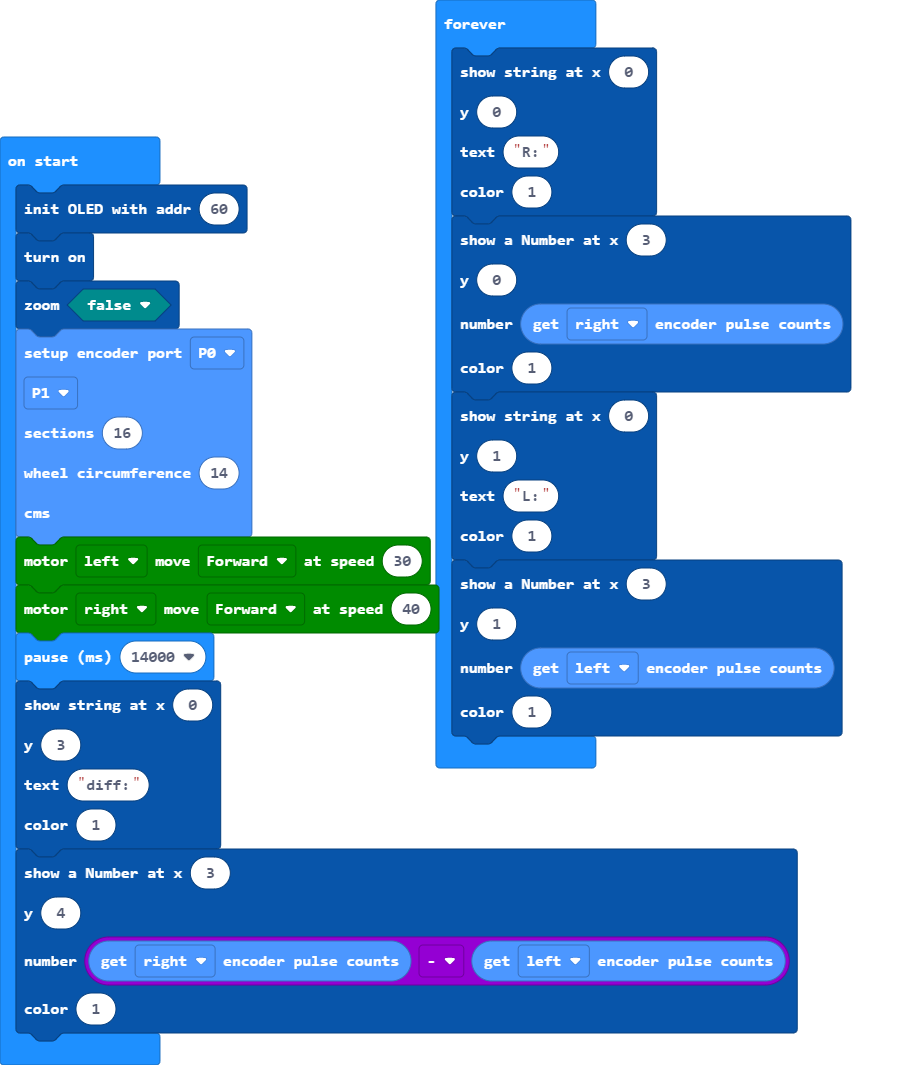
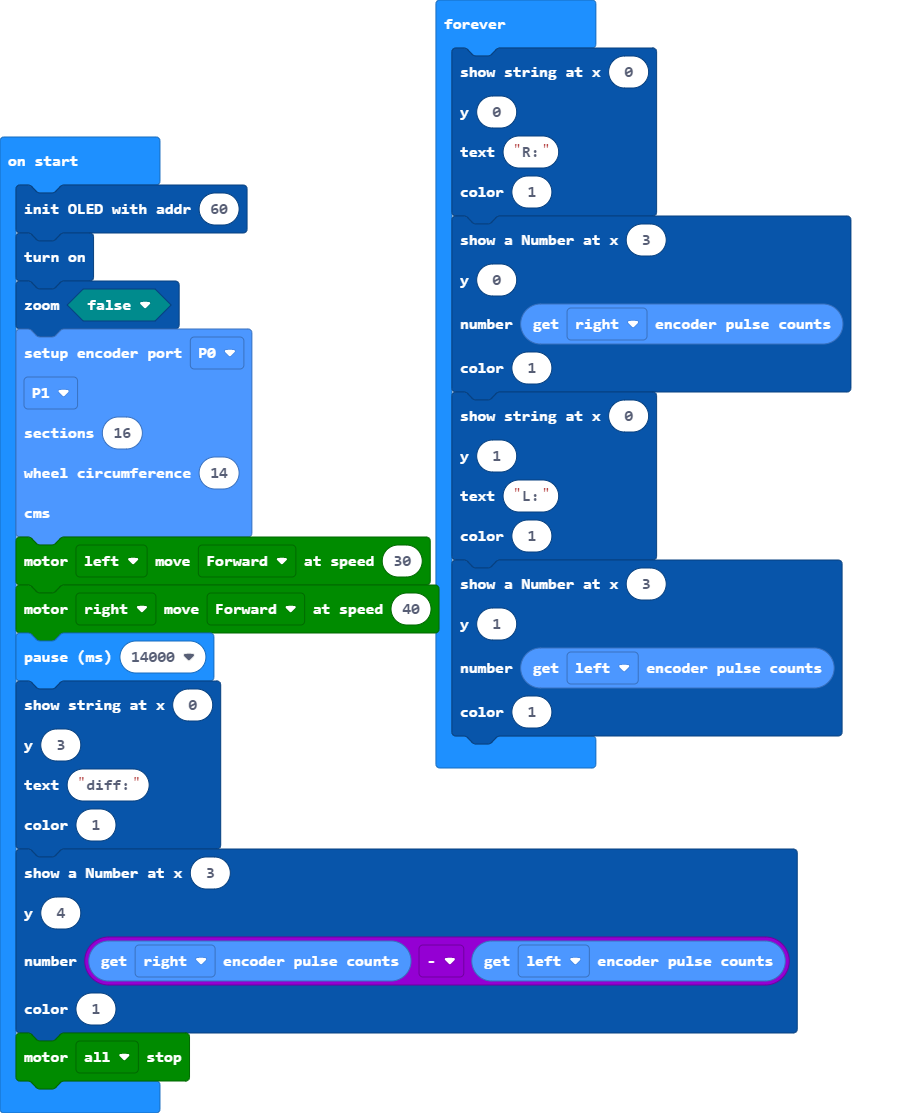
added stop motor

Changed region(s): [[0.0, 0.031, 0.9612, 0.9915], [0.4961, 0.0, 0.5581, 0.031]]

diff --git a/main.ts b/main.ts
@@ -22,6 +22,7 @@ OLED12864_I2C.showNumber(
 OrientBit.getwheelPulseCount(OrientBit.wheelSide.right) - OrientBit.getwheelPulseCount(OrientBit.wheelSide.left),
 1
 )
+maqueen.motorStop(maqueen.Motors.All)
 basic.forever(function () {
     OLED12864_I2C.showString(
     0,
